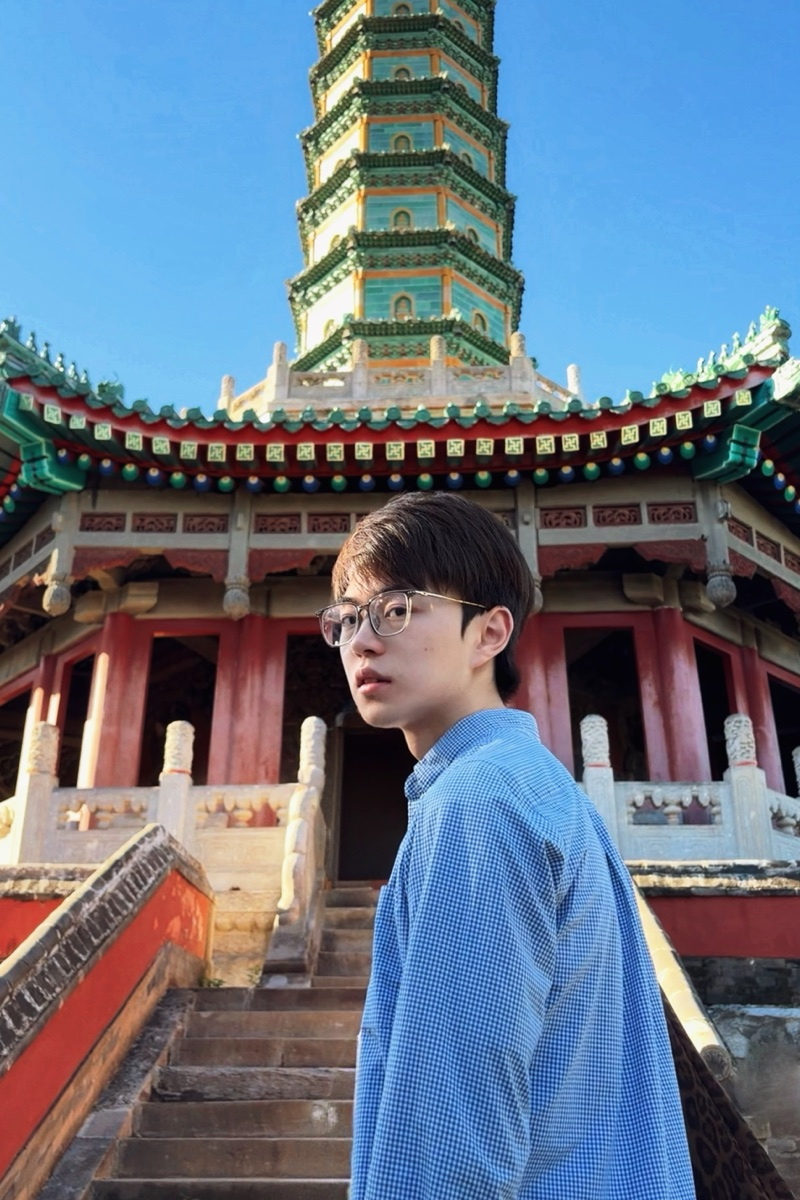
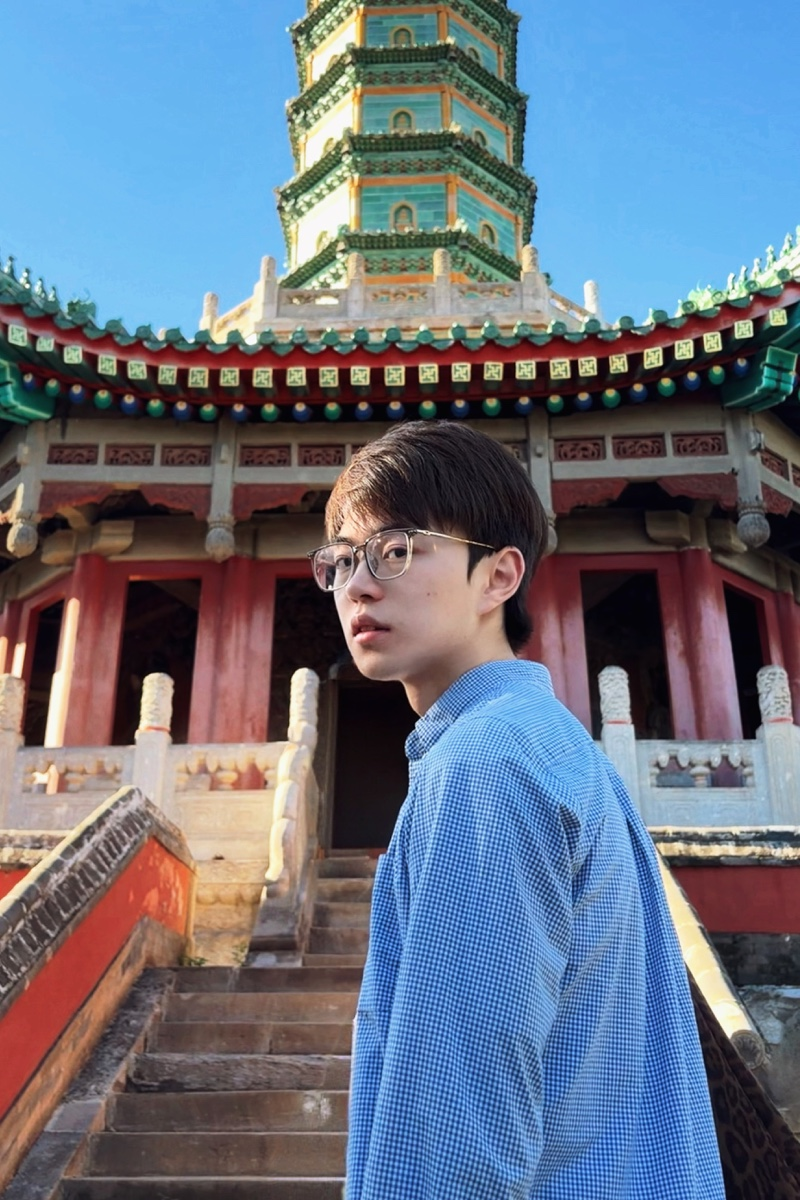
Recrop homepage portrait

diff --git a/assets/css/main.scss b/assets/css/main.scss
@@ -585,48 +585,13 @@ body {
     }
 }
 
-/* Author avatar composition and hover effect */
-.profile_box > .author__avatar {
-    display: block;
-    flex: 0 0 75px;
-    width: 75px;
-    height: auto;
-    aspect-ratio: 2 / 3;
-    overflow: hidden;
-    border-radius: 50%;
-    transition: box-shadow .5s cubic-bezier(0.4, 0, 0.2, 1);
-
-    @include breakpoint($large) {
-        width: 100%;
-        max-width: 185px;
-        height: auto;
-        aspect-ratio: 2 / 3;
-        padding: 5px;
-        border: 1px solid #e1e4e8;
-        box-sizing: border-box;
-    }
-
-    &:hover {
-        box-shadow: 0 8px 24px rgba(0, 0, 0, .15);
-    }
-}
-
+/* Author avatar hover effect */
 .author__avatar img {
-    display: block;
-    width: 100%;
-    height: 100%;
-    min-width: 0;
-    max-width: none;
-    padding: 0 !important;
-    border: 0 !important;
-    object-fit: cover;
-    object-position: center;
-    transform: translateY(-7%) scale(1.08);
-    transition: transform .5s cubic-bezier(0.4, 0, 0.2, 1) !important;
+    transition: all 0.5s cubic-bezier(0.4, 0, 0.2, 1) !important;
 
     &:hover {
-        transform: translateY(-7%) scale(1.12);
-        box-shadow: none !important;
+        transform: scale(1.05);
+        box-shadow: 0 8px 24px rgba(0, 0, 0, 0.15) !important;
     }
 }
 
@@ -794,7 +759,7 @@ body {
     }
 
     /* Sidebar & Author Profile */
-    .profile_box > .author__avatar {
+    .author__avatar img {
         border-color: #30363d !important;
     }
 
